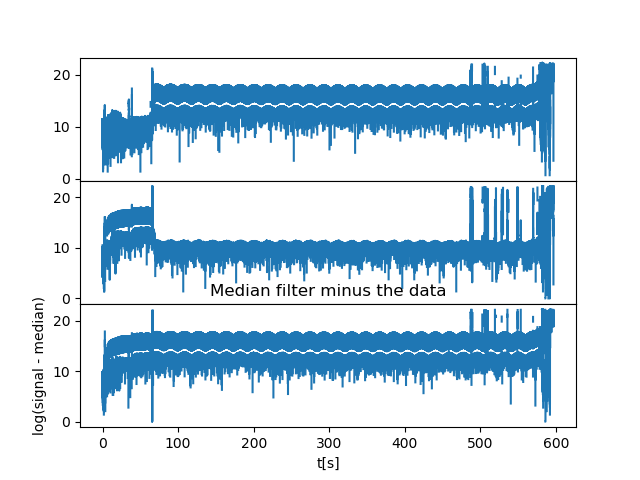
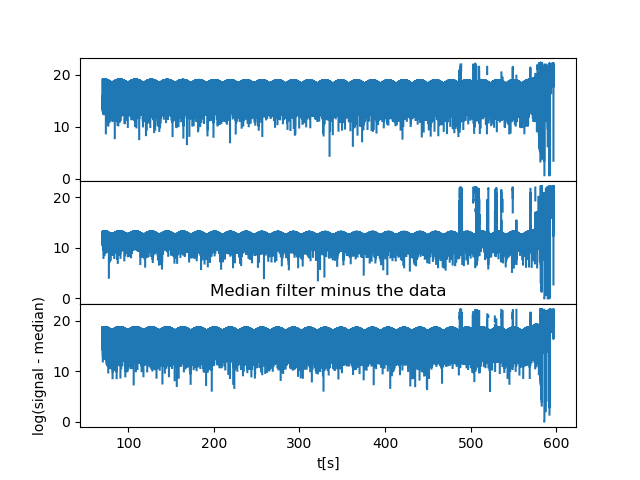
kept on doing some small stuff, can now try to seriously inpaint.

diff --git a/data_processing.py b/data_processing.py
@@ -31,6 +31,8 @@ class generate():
         self.range_set_done = False
         if not os.path.exists('graphs'):
             os.makedirs('graphs')
+        if not os.path.exists('dump_data'):
+            os.makedirs('dump_data')
         if var.plot_comparison == True:
             self.plot_comp = {}
         return None
@@ -46,6 +48,7 @@ class generate():
         self.t_pos, self.theta_usr, self.phi_usr, self.lat, self.lon, self.alt = np.load(str(var.dataname_pos)+'.npy')
         self.B = np.zeros(len(self.Bx))
         self.Bmodel = np.zeros(len(self.t_pos))
+        self.tick = np.array(range(len(self.Bx)))
         if len(self.t) == len(self.Bx):
             ' Length of t and Bx is equal. Proceed safely.'
         else:
@@ -68,7 +71,7 @@ class generate():
         print ' Dumping all data to file.'
         data = self.t, self.Bx, self.By, self.Bz, self.t_pos, self.theta_usr, self.phi_usr, self.lat, self.lon, self.alt, self.B, self.Bmodel
         print ' Filename = project_dumped*.pyn'
-        spec_name = str(raw_input(' * = '))
+        spec_name = 'test_sofar_inpainted' #str(raw_input(' * = '))
         np.save(var.dataname_dump + spec_name, data)
         return None
         
@@ -224,8 +227,8 @@ class generate():
     def set_range(self):
         print ''' Setting range for (interesting)data '''
         self.range_set_done = True
-        start = raw_input(' Begin at time ')
-        stopp = raw_input(' End at time ')
+        start = 70 #raw_input(' Begin at time ')
+        stopp = 600 #raw_input(' End at time ')
         try:
             stab = np.argmin(abs(self.t - float(start)))
             stob = np.argmin(abs(self.t - float(stopp)))
@@ -242,6 +245,7 @@ class generate():
         self.t = self.t[stab:stob]
         self.Bx, self.By, self.Bz = self.Bx[stab:stob], self.By[stab:stob], self.Bz[stab:stob]
         self.B, self.Bmodel = self.B[stab:stob], self.Bmodel[stab:stob]
+        self.tick = self.tick[stab:stob]
 
         self.t_abs = self.t_abs[stap:stop]
         self.lon = self.lon[stap:stop] ; self.lat = self.lat[stap:stop] ; self.alt = self.alt[stap:stop]
@@ -271,24 +275,26 @@ class generate():
 
 
     def plot_magnetic(self):
-        additional = raw_input(' plotting magn. additional name: ')
+        additional = 'test_inpaintfull' #raw_input(' plotting magn. additional name: ')
         Bs = [self.Bx, self.By, self.Bz, self.B] #, self.Bmodel]
         Bnames = ['Bx', 'By', 'Bz', 'B']#, 'Bmodel']
         for n in range(len(Bnames)):
             plt.plot(self.t, Bs[n])#, 'b-') #, '*')
             plt.title('Plot %s %s' % (additional,Bnames[n]))
             plt.savefig('graphs/plot%s%s.png' % (additional,Bnames[n]))
-            plt.show()
+            #plt.show()
             plt.clf()
-        
-        plt.plot(self.t_pos, self.Bmodel)
-        plt.savefig('graphs/plot%s%s.png' % (additional,'Bmodel'))
-        plt.clf()
 
-        plt.plot(self.t, self.B, 'r')
-        plt.plot(self.t_pos, self.Bmodel,'b') #is behind.. 
-        plt.savefig('graphs/plot%s%s.png' % (additional,'BmodelB'))
-        plt.clf()
+        print len(self.t_pos), len(self.Bmodel)
+        #plt.plot(self.t_pos, self.Bmodel)
+        #plt.savefig('graphs/plot%s%s.png' % (additional,'Bmodel'))
+        #plt.clf()
+
+        print len(self.t_pos), len(self.Bmodel)
+        #plt.plot(self.t, self.B, 'r')
+        #plt.plot(self.t_pos, self.Bmodel,'b') #is behind.. 
+        #plt.savefig('graphs/plot%s%s.png' % (additional,'BmodelB'))
+        #plt.clf()
         return 
         
     def plot_position(self):
@@ -312,32 +318,33 @@ class generate():
         fig.suptitle('Comparisons of raw data and stages of corrections.', fontsize=24)
         #fig.grid(color='r', linestyle='-', linewidth=2)
 
-        axs[0].plot(self.t, self.plot_comp_OG, label='Original data')
+        axs[0].plot(self.tick, self.plot_comp_OG, label='Original data')
         axs[0].set_xlim(var.plot_comp_xlim)
         axs[0].set_ylim([7.3e8, 8.0e8])
         axs[0].legend()
+        axs[0].grid('on')
 
-        axs[1].plot(self.t, self.plot_comp['median_minus_By'], label='Median - By')
+        axs[1].plot(self.tick, self.plot_comp['median_minus_By'], label='Median - By')
         axs[1].set_xlim(var.plot_comp_xlim)
-        axs[1].set_ylim([-2.5e5, 2e5])
+        axs[1].set_ylim([-1e9, 3.5e9])
         axs[1].legend()
         
-        axs[2].plot(self.t, self.plot_comp['despiked'], label='Despiked data')
+        axs[2].plot(self.tick, self.plot_comp['despiked'], label='Despiked data')
         axs[2].set_xlim(var.plot_comp_xlim)
         axs[2].set_ylim(var.plot_comp_ylim)
         axs[2].legend()
 
-        axs[3].plot(self.t, self.plot_comp['inpainted'], label='Inpainted')
+        axs[3].plot(self.tick, self.plot_comp['inpainted'], label='Inpainted')
         axs[3].set_xlim(var.plot_comp_xlim)
         axs[3].set_ylim(var.plot_comp_ylim)
         axs[3].legend()
 
         fig.text(0.95, 0.05, 'Preliminary results', fontsize=40, color='red', ha='right', va='bottom', alpha=0.3)
         axs[1].set_ylabel('Signal, nT (?)', fontsize=20)
-        plt.xlabel('Time after launch [s]', fontsize=20)
+        plt.xlabel('Ticks (approx. after launch)', fontsize=20)
         
         plt.savefig('graphs/plot%s.png' % ('method_comparison'))
-        plt.show()
+        #plt.show()
         plt.clf()
 
         return None

diff --git a/variables.py b/variables.py
@@ -26,8 +26,8 @@ dataname_old = '../data/project_data_old'
 dataname_B = '../data/project_data_B'
 dataname_pos = '../data/project_data_pos'
 
-dataname_dump = '../data/project_dumped'
-dataname_Bmodel_raw ='../data/project_Bmodel_raw'
+dataname_dump = '../dump_data/project_dumped'
+dataname_Bmodel_raw ='../dump_data/project_Bmodel_raw'
 
 
 #For the Ticktock Bmodel
@@ -59,9 +59,9 @@ fit_param = [1., 0.6, 0.3, 0.1, 0., 0., 0., ]
 
 
 # Median filter:
-med_kernx = 41
-med_kerny = 41
-med_kernz = 41
+med_kernx = 111 #41
+med_kerny = 111
+med_kernz = 111
 
 # For the despiking. Cut evertythgin that is 
 # spiking more than this in median data
@@ -73,8 +73,8 @@ desp_y_down = -2e7 #7e7
 desp_z_down = -2e7 #7e7
 
 #plot comparisons
-plot_comp_xlim = [680.50, 682.50]
-plot_comp_ylim = [7.3e8, 8.0e8]
+plot_comp_xlim = [1389000, 1396000] #[486.50, 488.25] #[680.50, 682.50]
+plot_comp_ylim = [7.4e8, 8.0e8]
 
 
 

diff --git a/run.py b/run.py
@@ -16,7 +16,7 @@ from fetching import fetch
 
 t_start = time.time()
 
-fetishing = True
+fetishing = False
 if fetishing == True:
     F = fetch()
     F.B()
@@ -26,26 +26,28 @@ if fetishing == True:
 run = generate()
 #run.remove_png()
 run.load()
-#run.set_range()
 
 run.get_Bmodel()
-#run.set_range()
+
+run.set_range()
+
 run.median_filter()
 run.despike_extreme()
-#run.inpaint()
+run.inpaint()
 #run.median_filter2()
-#run.plot_comparisons()
 
+run.plot_comparisons()
 
 run.calc_B()
 
 run.plot_magnetic()
 
-
-#
 #run.plot_magnetic() 
-#'project_data.txt')
-run.plot_position()
+#run.plot_position()
+run.dump_to_file()
+
+
+
 #run.wavelet()
 #run.despike()
 #run.fill_data()
